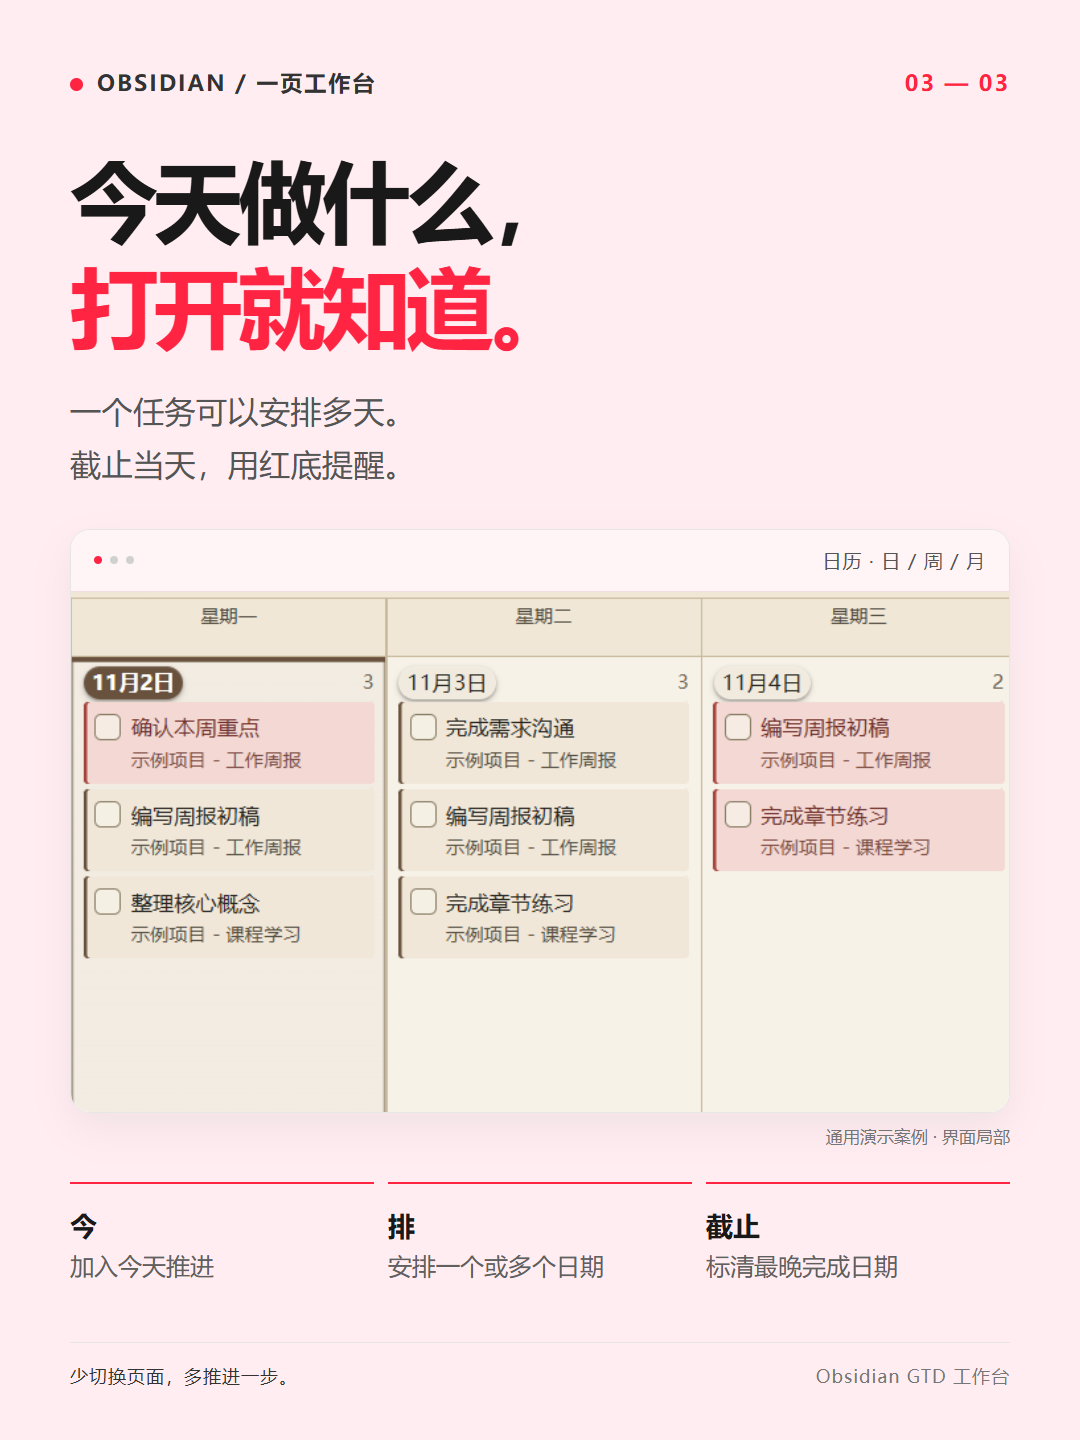
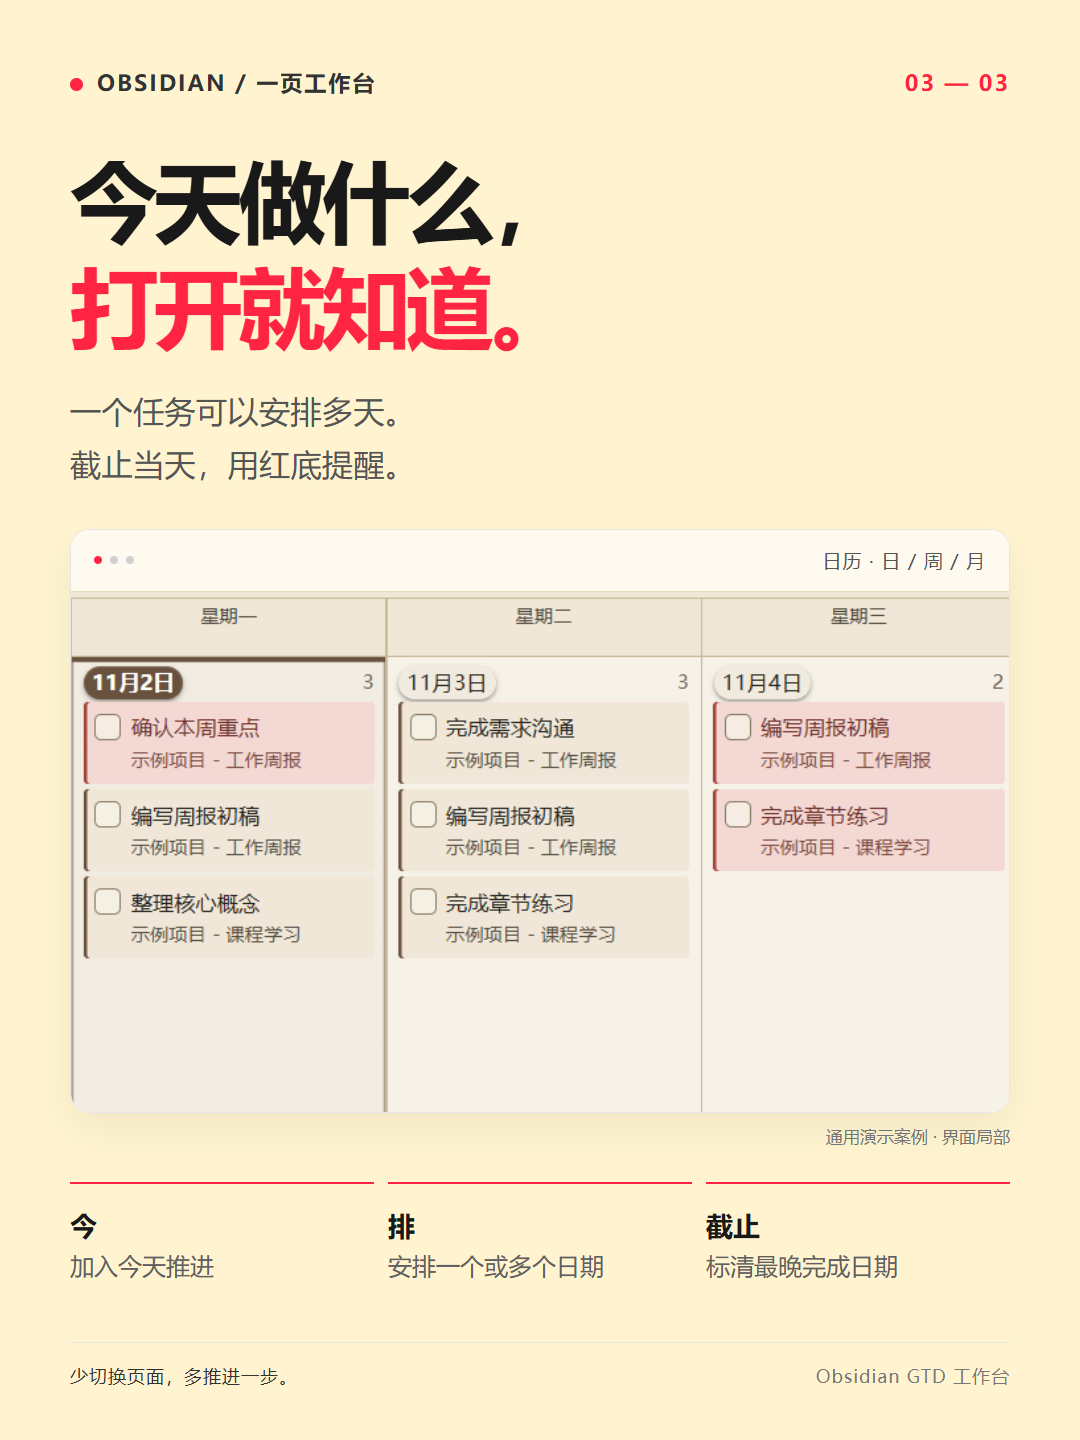
style: replace pink promotional background with cream yellow

diff --git a/维护资料/宣传配图.html b/维护资料/宣传配图.html
@@ -3,15 +3,15 @@
 <meta charset="utf-8">
 <title>Obsidian GTD 工作台 · 宣传配图</title>
 <style>
-*{box-sizing:border-box}html,body{margin:0;padding:0;background:#ffedf1;color:#191919;font-family:"Microsoft YaHei","PingFang SC",sans-serif}
-.poster{position:relative;width:1080px;height:1440px;overflow:hidden;padding:68px 70px;background:#ffedf1}
+*{box-sizing:border-box}html,body{margin:0;padding:0;background:#fff4cf;color:#191919;font-family:"Microsoft YaHei","PingFang SC",sans-serif}
+.poster{position:relative;width:1080px;height:1440px;overflow:hidden;padding:68px 70px;background:#fff4cf}
 .eyebrow{display:flex;justify-content:space-between;align-items:center;color:#333;font-size:22px;font-weight:600;letter-spacing:2px}
 .eyebrow>div:last-child{color:#ff2442}
 .mark{width:13px;height:13px;background:#ff2442;display:inline-block;margin-right:14px;border-radius:50%}
 h1{font-size:88px;line-height:1.2;letter-spacing:-4px;margin:50px 0 27px;font-weight:800}
 h1 span{color:#ff2442}.lead{font-size:31px;line-height:1.7;color:#555;margin:0;letter-spacing:.5px}
 .frame{position:relative;border:1px solid #e6e6e6;border-radius:20px;background:#fff;overflow:hidden;margin-top:38px;box-shadow:0 16px 40px #0000000d}
-.chrome{display:flex;align-items:center;gap:8px;padding:18px 23px;border-bottom:1px solid #f3dfe3;font-size:19px;color:#555;letter-spacing:1px;background:#fff4f6}
+.chrome{display:flex;align-items:center;gap:8px;padding:18px 23px;border-bottom:1px solid #eadfbc;font-size:19px;color:#555;letter-spacing:1px;background:#fffaf0}
 .dot{display:inline-block;width:8px;height:8px;border-radius:50%;background:#d0d0d0}.dot:first-child{background:#ff2442}.chrome .label{margin-left:auto}
 .viewport{position:relative;overflow:hidden;height:544px;background:#fff}.viewport img{position:absolute;display:block;max-width:none;height:auto}
 .cover .viewport img{width:1320px;left:-5px;top:0}.cover .viewport{height:520px}

diff --git a/维护资料/README.md b/维护资料/README.md
@@ -6,7 +6,7 @@
 
 仓库根目录的 README 提供简洁介绍；详细安装和操作教程在 `docs/安装与使用.md`，可直接复用的小红书文案在 `docs/小红书图文.md`。`docs/images/` 中的七张界面截图于 2026-11-02 通过 Obsidian.com 从独立演示库的 1.10.2 版本重新截取，使用工作周报与课程学习两个示例项目。
 
-`宣传配图.html` 将这些真实截图排成红、白、黑配色的图文卡片：浅粉色底、白色截图卡片、黑色标题和红色重点。使用 `?card=cover`、`?card=tasks`、`?card=calendar` 选择三张 1080 × 1440 竖图；`?card=cover&format=wide` 为 1800 × 1000 的 README 横图。界面文字来自原始截图，标题和说明是单独的页面元素。重拍截图后，重新渲染这个 HTML 即可更新配图。
+`宣传配图.html` 将这些真实截图排成图文卡片：奶油黄底、白色截图卡片、黑色标题和红色重点。使用 `?card=cover`、`?card=tasks`、`?card=calendar` 选择三张 1080 × 1440 竖图；`?card=cover&format=wide` 为 1800 × 1000 的 README 横图。界面文字来自原始截图，标题和说明是单独的页面元素。重拍截图后，重新渲染这个 HTML 即可更新配图。
 
 ## GTD 快捷操作
 
